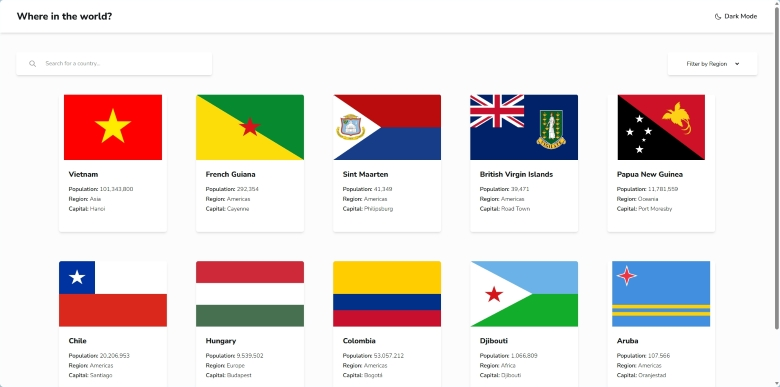
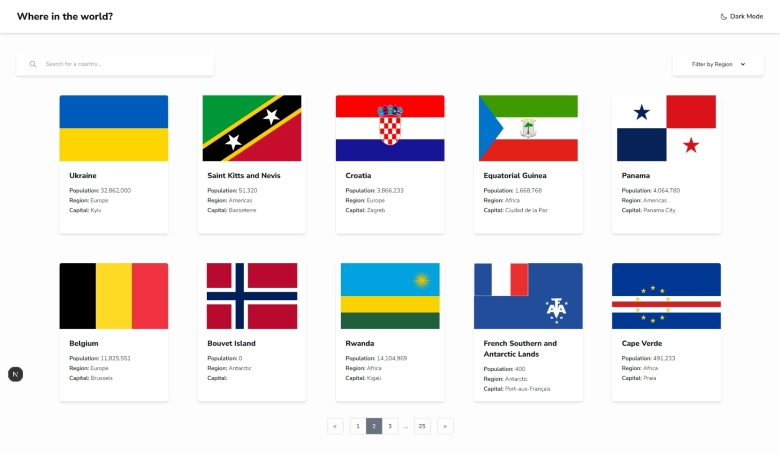
Improve pagination UI
Add dynamically generated individual page buttons and ellipses.

Fixes #3

diff --git a/app/components/Pagination.tsx b/app/components/Pagination.tsx
@@ -1,53 +1,144 @@
 // Client component for URL manipulation (data fetching is server component)
 "use client";
 
-import { usePathname, useSearchParams } from "next/navigation";
+import { usePathname, useSearchParams } from "next/navigation"; // client‑only hooks
 import Link from "next/link";
+import clsx from "clsx";
 
 export default function Pagination({
-  page,
+  currentPage,
   total,
   itemsPerPage,
 }: {
-  page: number;
+  currentPage: number;
   total: number;
   itemsPerPage: number;
 }) {
   const totalPages = Math.ceil(total / itemsPerPage);
   const pathname = usePathname(); // returns the current route path without query params (e.g., '/', '/country', etc.)
-  const searchParams = useSearchParams(); // returns a ReadonlyURLSearchParams object, so you must use .get(), .has(), .entries(), etc.
+  const searchParams = useSearchParams(); // returns an immutable ReadonlyURLSearchParams object that would look like: {page: '1', region: 'Americas'}
+  const allPages = generatePagination(currentPage, totalPages); //array
 
-  const createPageLink = (newPage: number) => {
-    const params = new URLSearchParams(searchParams); // URLSearchParams is a Web API that provides utility methods for manipulating the URL query parameters.
+  const createPageLink = (newPage: number | string): string => {
+    const params = new URLSearchParams(searchParams); // creates a mutable clone and provides utility methods for manipulating the URL query parameters
     params.set("page", String(newPage));
-    return `${pathname}?${params.toString()}`;
-    // The URL is updated without reloading the whole page.
+    return `${pathname}?${params.toString()}`; // would look like "/?region=Asia&page=2"
+    // The URL is updated without reloading the whole page
   };
 
   return (
-    <nav className="flex gap-4 justify-center mt-10">
-      {page > 1 && (
-        <Link
-          href={createPageLink(page - 1)}
-          className="cursor-pointer p-1 bg-gray-200 dark:bg-(--blue-900) rounded flex items-center"
-        >
-          Previous
-        </Link>
+    <nav className="flex flex-wrap gap-4 justify-center mt-10">
+      {currentPage > 1 && (
+        <PaginationArrow
+          href={createPageLink(currentPage - 1)}
+          direction="left"
+        ></PaginationArrow>
       )}
 
-      <span className="text-preset-5-light">
-        Page <span className="text-preset-5-semibold">{page}</span> of{" "}
-        <span className="text-preset-5-semibold">{totalPages}</span>
-      </span>
+      <div className="flex -space-x-px">
+        {allPages.map((page, index) => {
+          let position: "first" | "last" | "single" | "middle" | undefined;
 
-      {page < totalPages && (
-        <Link
-          href={createPageLink(page + 1)}
-          className="cursor-pointer p-1 bg-gray-200 dark:bg-(--blue-900) rounded flex items-center"
-        >
-          Next
-        </Link>
+          if (index === 0) position = "first";
+          if (index === allPages.length - 1) position = "last";
+          if (allPages.length === 1) position = "single";
+          if (page === "...") position = "middle";
+
+          return (
+            <PaginationNumber
+              key={`${page}-${index}`}
+              href={createPageLink(page)}
+              page={page}
+              position={position}
+              isActive={currentPage === page}
+            />
+          );
+        })}
+      </div>
+
+      {currentPage < totalPages && (
+        <PaginationArrow
+          href={createPageLink(currentPage + 1)}
+          direction="right"
+        ></PaginationArrow>
       )}
     </nav>
   );
 }
+
+const generatePagination = (currentPage: number, totalPages: number) => {
+  // If the total number of pages is 7 or less, display all pages without any ellipsis.
+  if (totalPages <= 7) {
+    return Array.from({ length: totalPages }, (_, i) => i + 1);
+  }
+
+  // If the current page is among the first 3 pages, show the first 3, an ellipsis, and the last page.
+  if (currentPage <= 3) {
+    return [1, 2, 3, "...", totalPages];
+  }
+
+  // If the current page is among the last 3 pages, show the first page, an ellipsis, and the last 3 pages.
+  if (currentPage >= totalPages - 2) {
+    return [1, "...", totalPages - 2, totalPages - 1, totalPages];
+  }
+
+  // If the current page is somewhere in the middle, show the first page, an ellipsis, the current page and its neighbors, another ellipsis, and the last page.
+  return [
+    1,
+    "...",
+    currentPage - 1,
+    currentPage,
+    currentPage + 1,
+    "...",
+    totalPages,
+  ];
+};
+
+const PaginationArrow = ({
+  href,
+  direction,
+}: {
+  href: string;
+  direction: "left" | "right";
+}) => {
+  return (
+    <Link
+      href={href}
+      className="h-10 w-10 flex items-center justify-center rounded-md cursor-pointer border border-gray-300 dark:border-gray-600 hover:bg-gray-300 dark:hover:bg-gray-600"
+    >
+      {direction === "left" ? "<" : ">"}
+    </Link>
+  );
+};
+
+const PaginationNumber = ({
+  page,
+  href,
+  isActive,
+  position,
+}: {
+  page: number | string;
+  href: string;
+  position?: "first" | "last" | "middle" | "single";
+  isActive: boolean;
+}) => {
+  const className = clsx(
+    "h-10 w-10 flex items-center justify-center border border-gray-300 dark:border-gray-600",
+    {
+      "rounded-l-md": position === "first" || position === "single",
+      "rounded-r-md": position === "last" || position === "single",
+      "z-10 bg-gray-500 border-gray-400 text-white": isActive,
+      "hover:bg-gray-300 dark:hover:bg-gray-600":
+        !isActive && position !== "middle",
+      "border-t-0 border-b-0": position === "middle",
+    },
+  );
+
+  return isActive || position === "middle" ? (
+    <div className={className}>{page}</div>
+  ) : (
+    <Link href={href} className={className}>
+      {page}
+    </Link>
+  );
+};

diff --git a/app/page.tsx b/app/page.tsx
@@ -100,7 +100,7 @@ const Home = async ({
       <section>
         <CountriesList list={paginated}></CountriesList>
         <Pagination
-          page={page}
+          currentPage={page}
           total={filtered.length}
           itemsPerPage={itemsPerPage}
         ></Pagination>

diff --git a/README.md b/README.md
@@ -117,57 +117,144 @@ This approach keeps data fetching on the server, reduces client‑side overhead,
 
 #### 2. Pagination for Large Data Sets
 
-To keep the countries list performant and easy to navigate, the app uses **query‑based** pagination. This approach avoids loading all countries at once and ensures that page transitions remain fast and accessible.
+To keep the countries list performant and easy to navigate, the app uses **query‑based pagination**. This avoids loading all countries at once and ensures that page transitions remain fast and accessible, and fully compatible with server‑side rendering.
 
-The Pagination component reads the current URL parameters, updates the page value, and generates new links **without triggering a full page reload**. This works seamlessly with the App Router’s built‑in routing utilities.
+The Pagination component reads the current URL parameters, updates the `page` value, and generates new links **without triggering a full page reload**. This works seamlessly with the App Router’s built‑in routing utilities.
 
 Example: `app/components/Pagination.tsx`
 
 ```tsx
 export default function Pagination({
-  page,
+  currentPage,
   total,
   itemsPerPage,
 }: {
-  page: number;
+  currentPage: number;
   total: number;
   itemsPerPage: number;
 }) {
   const totalPages = Math.ceil(total / itemsPerPage);
   const pathname = usePathname(); // returns the current route path without query params (e.g., '/', '/country', etc.)
-  const searchParams = useSearchParams(); // returns a ReadonlyURLSearchParams object, so you must use .get(), .has(), .entries(), etc.
+  const searchParams = useSearchParams(); // returns an immutable ReadonlyURLSearchParams object that would look like: {page: '1', region: 'Americas'}
+  const allPages = generatePagination(currentPage, totalPages); //array
 
-  const createPageLink = (newPage: number) => {
-    const params = new URLSearchParams(searchParams); // URLSearchParams is a Web API that provides utility methods for manipulating the URL query parameters.
+  const createPageLink = (newPage: number | string): string => {
+    const params = new URLSearchParams(searchParams); // creates a mutable clone and provides utility methods for manipulating the URL query parameters
     params.set("page", String(newPage));
-    return `${pathname}?${params.toString()}`;
-    // The URL is updated without reloading the whole page.
+    return `${pathname}?${params.toString()}`; // would look like "/?region=Asia&page=2"
+    // The URL is updated without reloading the whole page
   };
 
   return (
     <nav className="flex...">
-      {page > 1 && (
-        <Link href={createPageLink(page - 1)} className="cursor-pointer...">
-          Previous
-        </Link>
+      {currentPage > 1 && (
+        <PaginationArrow
+          href={createPageLink(currentPage - 1)}
+          direction="left"
+        ></PaginationArrow>
       )}
 
-      <span className="text-preset-5-light">
-        Page <span className="text-preset-5-semibold">{page}</span> of{" "}
-        <span className="text-preset-5-semibold">{totalPages}</span>
-      </span>
+      <div className="flex...">
+        {allPages.map((page, index) => {
+          let position: "first" | "last" | "single" | "middle" | undefined;
 
-      {page < totalPages && (
-        <Link href={createPageLink(page + 1)} className="cursor-pointer...">
-          Next
-        </Link>
+          if (index === 0) position = "first";
+          if (index === allPages.length - 1) position = "last";
+          if (allPages.length === 1) position = "single";
+          if (page === "...") position = "middle";
+
+          return (
+            <PaginationNumber
+              key={`${page}-${index}`}
+              href={createPageLink(page)}
+              page={page}
+              position={position}
+              isActive={currentPage === page}
+            />
+          );
+        })}
+      </div>
+
+      {currentPage < totalPages && (
+        <PaginationArrow
+          href={createPageLink(currentPage + 1)}
+          direction="right"
+        ></PaginationArrow>
       )}
     </nav>
   );
 }
 ```
 
-This pattern keeps pagination logic simple, predictable, and fully compatible with server‑side rendering. It also ensures that **pagination state is reflected in the URL**, making pages shareable and bookmark‑friendly.
+The pagenation buttons are generated dynamically based on the total number of pages:
+
+```tsx
+const generatePagination = (currentPage: number, totalPages: number) => {
+  // If the total number of pages is 7 or less, display all pages without any ellipsis.
+  if (totalPages <= 7) {
+    return Array.from({ length: totalPages }, (_, i) => i + 1);
+  }
+
+  // If the current page is among the first 3 pages, show the first 3, an ellipsis, and the last page.
+  if (currentPage <= 3) {
+    return [1, 2, 3, "...", totalPages];
+  }
+
+  // If the current page is among the last 3 pages, show the first page, an ellipsis, and the last 3 pages.
+  if (currentPage >= totalPages - 2) {
+    return [1, "...", totalPages - 2, totalPages - 1, totalPages];
+  }
+
+  // If the current page is somewhere in the middle, show the first page, an ellipsis, the current page and its neighbors, another ellipsis, and the last page.
+  return [
+    1,
+    "...",
+    currentPage - 1,
+    currentPage,
+    currentPage + 1,
+    "...",
+    totalPages,
+  ];
+};
+```
+
+Each button is styled based on its position and whether it matches the current page:
+
+```tsx
+const PaginationNumber = ({
+  page,
+  href,
+  isActive,
+  position,
+}: {
+  page: number | string;
+  href: string;
+  position?: "first" | "last" | "middle" | "single";
+  isActive: boolean;
+}) => {
+  const className = clsx(
+    "h-10 w-10 flex items-center justify-center border border-gray-300 dark:border-gray-600",
+    {
+      "rounded-l-md": position === "first" || position === "single",
+      "rounded-r-md": position === "last" || position === "single",
+      "z-10 bg-gray-500 border-gray-400 text-white": isActive,
+      "hover:bg-gray-300 dark:hover:bg-gray-600":
+        !isActive && position !== "middle",
+      "border-t-0 border-b-0": position === "middle",
+    },
+  );
+
+  return isActive || position === "middle" ? (
+    <div className={className}>{page}</div>
+  ) : (
+    <Link href={href} className={className}>
+      {page}
+    </Link>
+  );
+};
+```
+
+This pattern keeps pagination logic simple, predictable, and fully SSR‑compatible. It also ensures that **pagination state is reflected in the URL**, making pages shareable, bookmark‑friendly, and easy to navigate.
 
 #### 3. Dark Mode on the Server Side
 